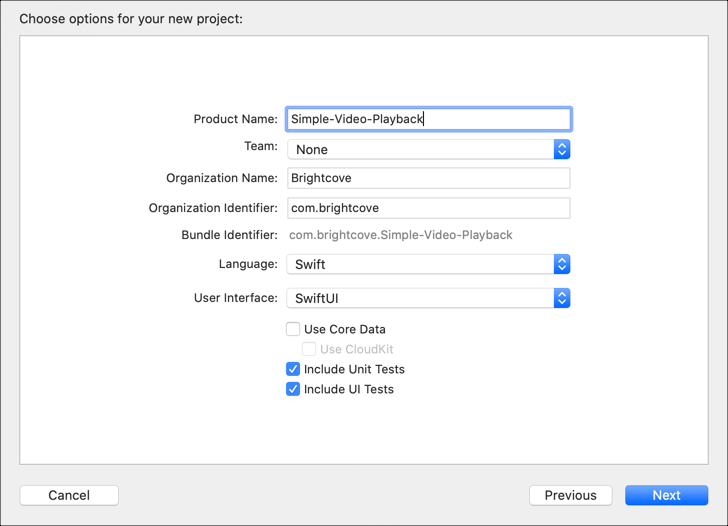
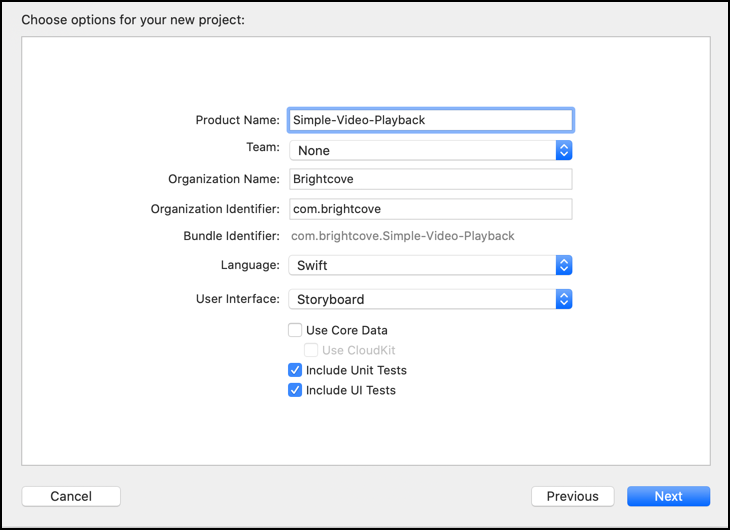
wip: ios swift

diff --git a/_site/ios/basics/step-step-simple-video-app-using-swift.html b/_site/ios/basics/step-step-simple-video-app-using-swift.html
@@ -942,6 +942,8 @@ function doGTranslate(lang_pair) {if(lang_pair.value)lang_pair=lang_pair.value;i
 		<li><strong>Organization Identifier:</strong> com.example-company<br />
 		This makes the product name unique for the app store.</li>
 		<li><strong>Language:</strong> Swift</li>
+    <li><strong>User Interface:</strong> Storyboard
+    <p>In this example, we are using the storyboard interface.</p></li>
 	</ul>
 
 	<figure class="bcls-figure"><img class="bcls-image--no-border" alt="Add project information" src="/assets/images/ios/step-by-step-swift/project-info.png" />
@@ -1022,15 +1024,21 @@ end</code></pre>
 	<li>
 	<p>In the Terminal session, type the command</p>
 
-	<pre class="line-numbers" data-start="1">
+	<pre>
 <code class="notranslate language-swift">pod install</code></pre>
 
 	<p>and press <strong>Return</strong> to run the it.</p>
+  <p>If CocoaPods can not find a compatible version for the pod, or it is not the latest version, try running the following in the Terminal app:</p>
+  <pre>
+<code class="notranslate language-swift">pod update</code></pre>
   <p>You should see a series of messages in the terminal indicating that the Brightcove Player SDK has been added to your project.</p>
 	</li>
 	<li>
     <p>The <code class="notranslate">pod install</code> command creates a <code class="notranslate">.xcworkspace</code> file for your project.</p>
 	<p>From this point on, you must open the <strong>Simple-Video-Playback.xcworkspace</strong> file in Xcode, <strong>not</strong> the <em>Simple-Video-Playback.xcodeproj</em> file. </p>
+  <figure class="bcls-figure"><img class="bcls-image--no-border" alt="Workspace" src="/assets/images/ios/step-by-step-swift/workspace.png" />
+	<figcaption class="bcls-caption--image">Workspace</figcaption>
+	</figure>
 	</li>
 </ol>
 
@@ -1807,7 +1815,7 @@ Temporary exceptions can be configured via your app's Info.plist file.</code></p
 
 <hr>
 <div class="last-updated">
-  Page last updated on 02 Sep 2020
+  Page last updated on 03 Sep 2020
 </div>
 
 

diff --git a/ios/basics/step-step-simple-video-app-using-swift.html b/ios/basics/step-step-simple-video-app-using-swift.html
@@ -103,6 +103,8 @@ grandparent: iOS Development
 		<li><strong>Organization Identifier:</strong> com.example-company<br />
 		This makes the product name unique for the app store.</li>
 		<li><strong>Language:</strong> Swift</li>
+    <li><strong>User Interface:</strong> Storyboard
+    <p>In this example, we are using the storyboard interface.</p></li>
 	</ul>
 
 	<figure class="bcls-figure"><img class="bcls-image--no-border" alt="Add project information" src="/assets/images/ios/step-by-step-swift/project-info.png" />
@@ -183,15 +185,21 @@ end</code></pre>
 	<li>
 	<p>In the Terminal session, type the command</p>
 
-	<pre class="line-numbers" data-start="1">
+	<pre>
 <code class="notranslate language-swift">pod install</code></pre>
 
 	<p>and press <strong>Return</strong> to run the it.</p>
+  <p>If CocoaPods can not find a compatible version for the pod, or it is not the latest version, try running the following in the Terminal app:</p>
+  <pre>
+<code class="notranslate language-swift">pod update</code></pre>
   <p>You should see a series of messages in the terminal indicating that the Brightcove Player SDK has been added to your project.</p>
 	</li>
 	<li>
     <p>The <code class="notranslate">pod install</code> command creates a <code class="notranslate">.xcworkspace</code> file for your project.</p>
 	<p>From this point on, you must open the <strong>Simple-Video-Playback.xcworkspace</strong> file in Xcode, <strong>not</strong> the <em>Simple-Video-Playback.xcodeproj</em> file. </p>
+  <figure class="bcls-figure"><img class="bcls-image--no-border" alt="Workspace" src="/assets/images/ios/step-by-step-swift/workspace.png" />
+	<figcaption class="bcls-caption--image">Workspace</figcaption>
+	</figure>
 	</li>
 </ol>
 
